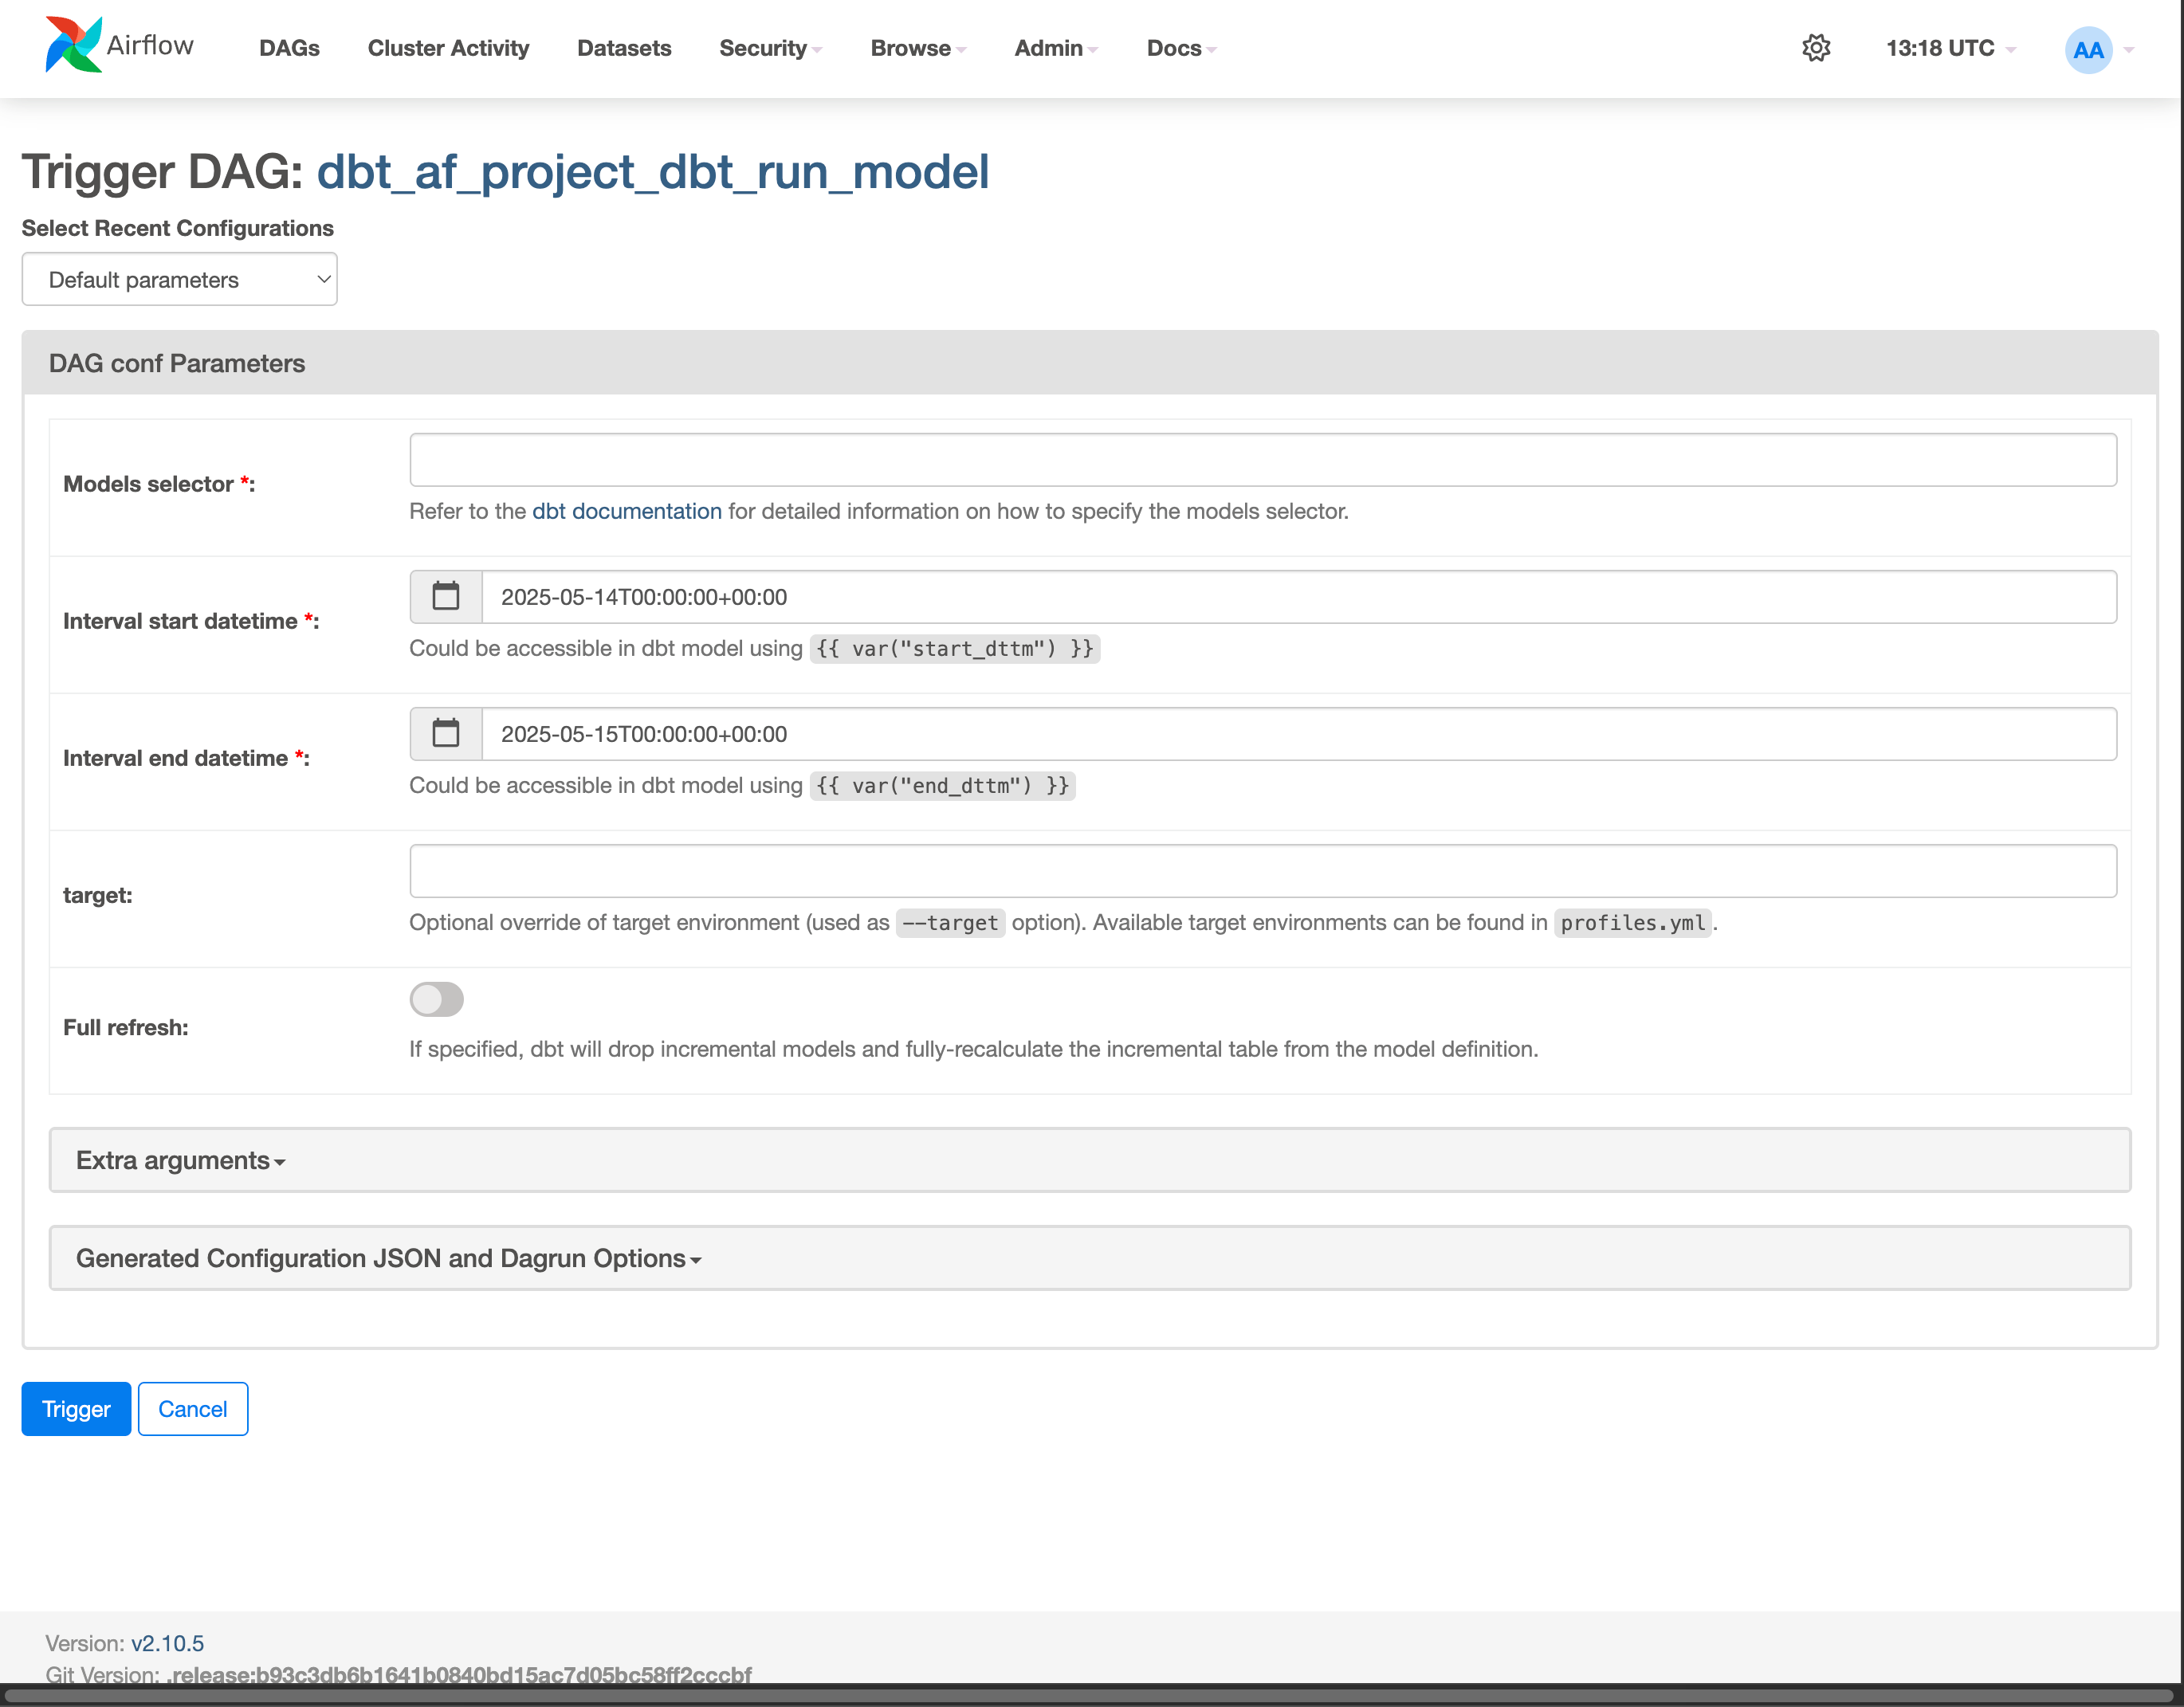
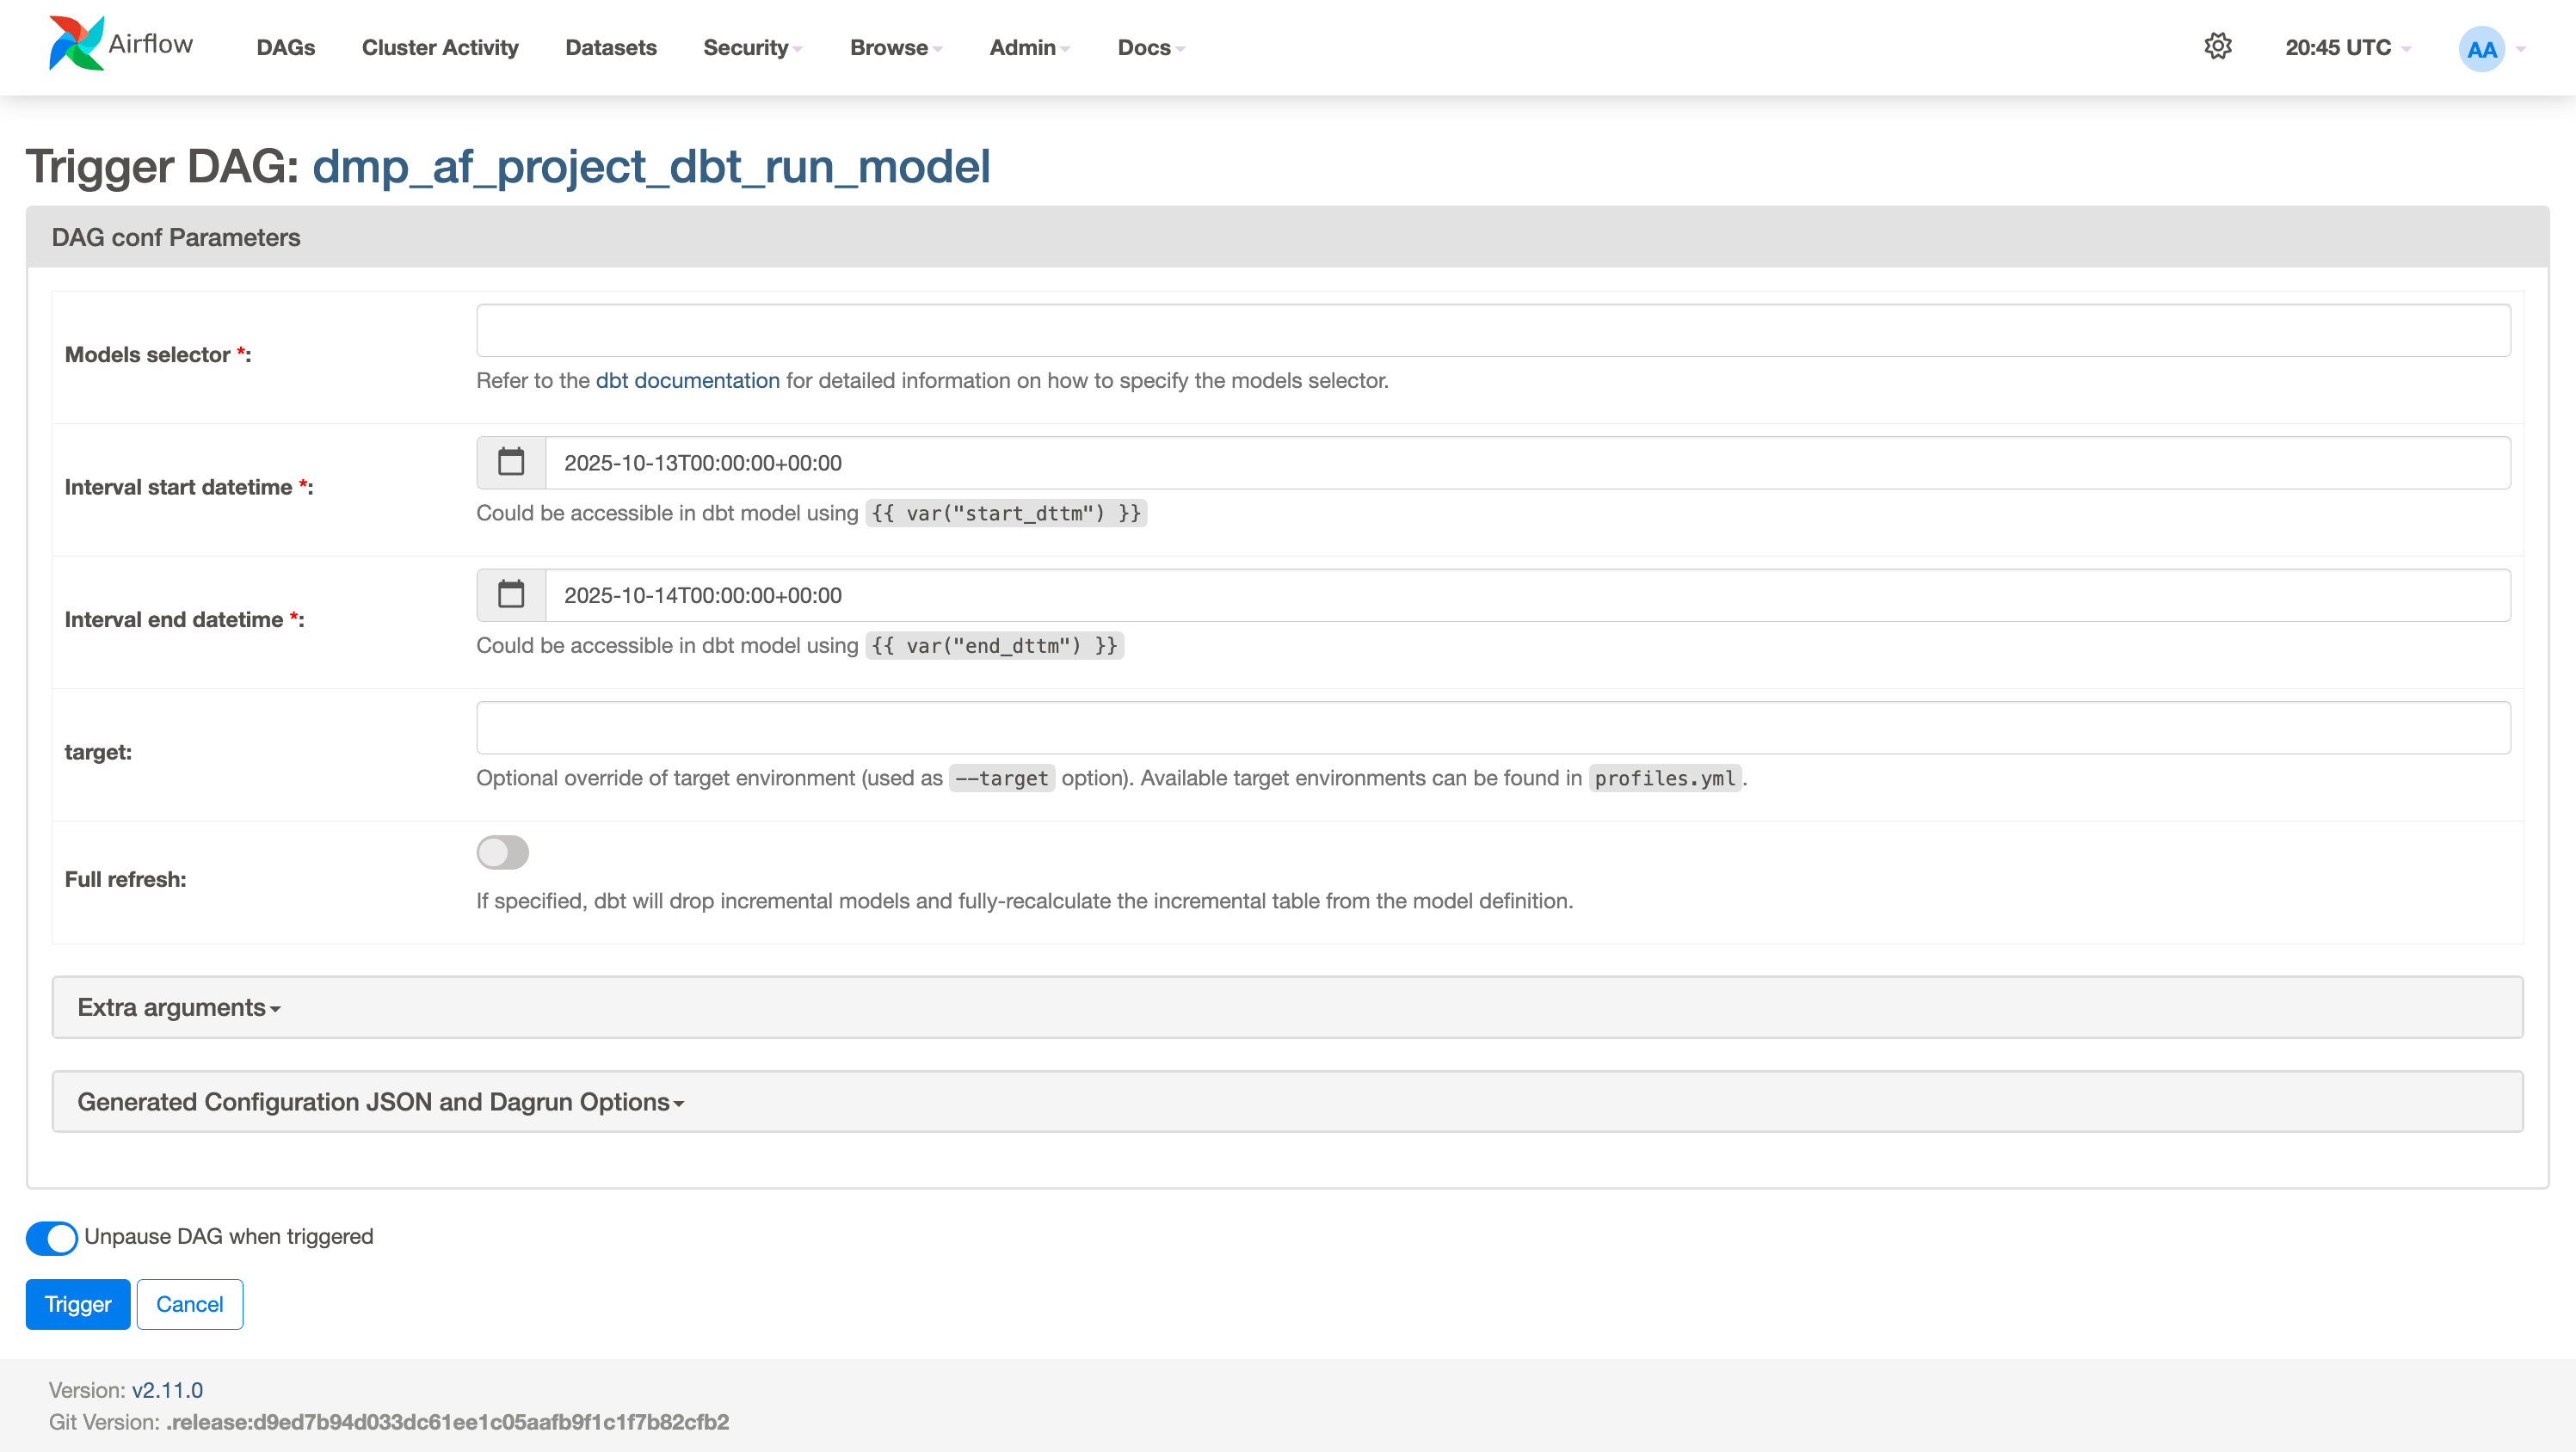
update docs

diff --git a/README.md b/README.md
@@ -16,8 +16,6 @@
 It acts as a wrapper around the Airflow DAG,
 allowing you to run the models independently while preserving their dependencies.
 
-This project is a fork of [dbt-af](https://github.com/Toloka/dbt-af) by Toloka AI BV.
-
 ![dmp-af](docs/static/airflow_dag_layout.png)
 
 ### Why?